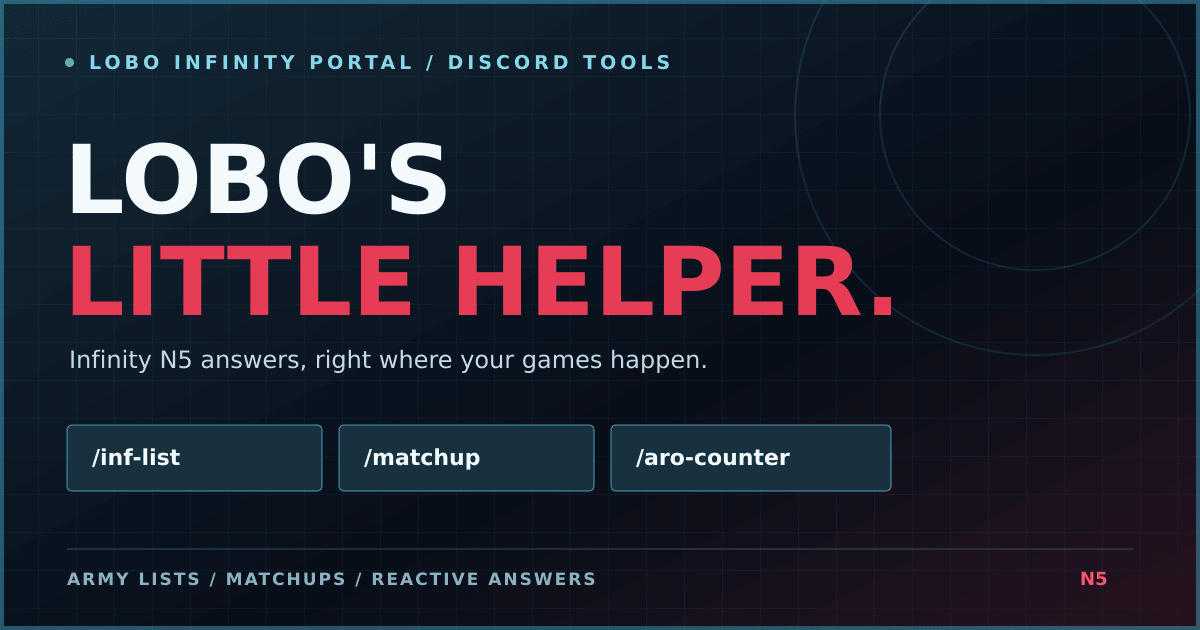
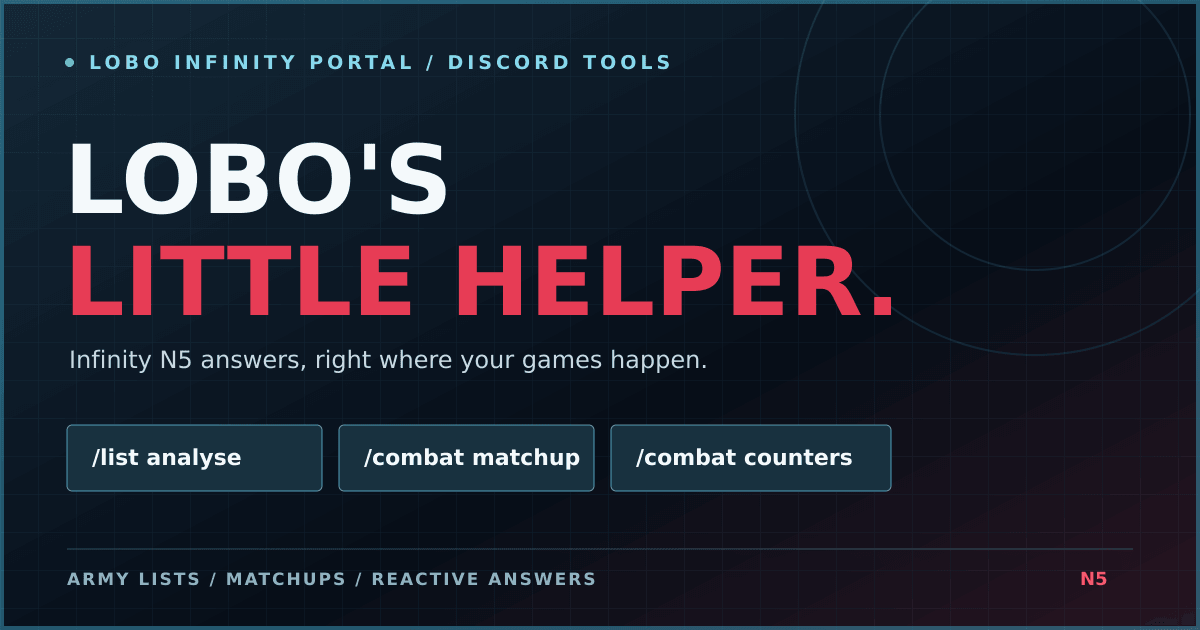
Update Little Helper guide for grouped bot commands

Changed region(s): [[0.5242, 0.6937, 0.7092, 0.754], [0.3083, 0.6937, 0.4933, 0.754], [0.0925, 0.6937, 0.2158, 0.754]]

diff --git a/lobo-infinity-portal/src/pages/LittleHelper.tsx b/lobo-infinity-portal/src/pages/LittleHelper.tsx
@@ -4,12 +4,20 @@ import PortalIcon from '../components/PortalIcon'
 import './LittleHelper.css'
 
 const moreCommands = [
-  { command: '/build-list', description: 'Build one mission-guided army list with must-include models.' },
-  { command: '/random-list', description: 'Generate a faction list with your points and SWC target.' },
-  { command: '/mission', description: 'Look up a scenario and its mission details.' },
+  { command: '/list build', description: 'Choose a faction and mission for three guided list options. Add must-include models, then use Analyse This List or Create ID Sheet.' },
+  { command: '/list random', description: 'Choose a faction, points, and SWC target. Get a random legal list and 2D TTS export; open roster, classifieds, and TTS notes privately.' },
+  { command: '/list identify', description: 'Paste an Army code to make a printable model identification sheet.' },
   { command: '/rules', description: 'Ask an Infinity rules question and get cited sources.' },
-  { command: '/inf-id', description: 'Make a printable identification sheet for an army list.' },
-  { command: '/availability', description: 'Set or check times to arrange a game.' },
+  { command: '/mission', description: 'Choose a scenario to look up its mission details.' },
+  { command: '/help', description: 'Open the private command guide. Pick Army Lists, Combat, Game Reference, or Find a Game.' },
+] as const
+
+const playCommands = [
+  { command: '/play availability set', description: 'Save recurring availability for a day, weekdays, or weekends. Supply start, end, and time zone; optionally choose format, points, and game type.' },
+  { command: '/play availability show', description: 'Check your saved availability.' },
+  { command: '/play availability clear', description: 'Remove one day or all saved days.' },
+  { command: '/play find now', description: 'Post a one-off game request with a date, start, end, and time zone. Optionally choose format, game size, and game type.' },
+  { command: '/play find close', description: 'Close your latest open game request.' },
 ] as const
 
 function LittleHelper() {
@@ -27,16 +35,16 @@ function LittleHelper() {
             <DiscordCommunityLink className="helper-button helper-button-primary" icon>Join Discord to try it <span aria-hidden="true">↗</span></DiscordCommunityLink>
             <a className="helper-button helper-button-secondary" href="#helper-commands">See the commands <span aria-hidden="true">↓</span></a>
           </div>
-          <p className="helper-hero-note">Free to use in the Lobo Infinity League Discord · Start with a slash command</p>
+          <p className="helper-hero-note">Start in the Lobo Infinity League Discord · Type /help for the private command guide</p>
         </div>
         <div className="helper-hero-display" aria-label="Three featured bot commands">
           <div className="helper-display-top"><span>LOBO&apos;S LITTLE HELPER</span><span>ONLINE IN DISCORD <i /></span></div>
           <div className="helper-display-grid" aria-hidden="true"><span /><span /><span /><span /><span /><span /></div>
           <div className="helper-display-content">
             <span className="helper-display-index">COMMAND INDEX / 001—003</span>
-            <a href="#inf-list"><strong>01</strong><span>/inf-list<small>Army list intelligence</small></span><b>↗</b></a>
-            <a href="#matchup"><strong>02</strong><span>/matchup<small>Two profiles. Both directions.</small></span><b>↗</b></a>
-            <a href="#aro-counter"><strong>03</strong><span>/aro-counter<small>Find a reactive answer.</small></span><b>↗</b></a>
+            <a href="#list-analyse"><strong>01</strong><span>/list analyse<small>Army list intelligence</small></span><b>↗</b></a>
+            <a href="#combat-matchup"><strong>02</strong><span>/combat matchup<small>Two profiles. Both directions.</small></span><b>↗</b></a>
+            <a href="#combat-counters"><strong>03</strong><span>/combat counters<small>Find a reactive answer.</small></span><b>↗</b></a>
           </div>
           <div className="helper-display-bottom"><span>INFINITY N5</span><span>READY FOR YOUR NEXT GAME</span></div>
         </div>
@@ -44,36 +52,38 @@ function LittleHelper() {
 
       <section className="helper-section-intro" id="helper-commands" aria-labelledby="helper-commands-title">
         <div><p className="helper-section-label">The field kit / 03 featured commands</p><h2 id="helper-commands-title">See what comes back.</h2></div>
-        <p>These previews show the fields the bot returns. Your own list and profile choices fill in the actual results in Discord.</p>
+        <p>Type /list, /combat, or /play and choose a subcommand in Discord. Start with the short result, then use its buttons for private details and connected tools.</p>
       </section>
 
       <section className="helper-showcases" aria-label="Featured bot commands">
-        <article className="helper-showcase" id="inf-list">
+        <article className="helper-showcase" id="list-analyse">
           <div className="helper-showcase-copy">
             <span className="helper-number">01 / LIST INTELLIGENCE</span>
-            <h3><code>/inf-list</code></h3>
-            <p>Paste an Infinity Army code. Get a readable list image, legality check, tactical brief, and the list&apos;s coverage of the current ITS 18 classified deck.</p>
+            <h3><code>/list analyse</code></h3>
+            <p>Paste an Infinity Army code. The channel reply shows legality, a short summary, a readable roster, and a 2D Tabletop Simulator JSON export. Open the detail buttons for more.</p>
             <div className="helper-input"><span>YOU PROVIDE</span><strong>An Infinity Army code</strong></div>
-            <ul><li>Points, SWC, and trooper legality</li><li>Gunfighters, ARO pieces, specialists, and control tools</li><li>Classified capability and a link back to Infinity Army</li></ul>
+            <ul><li>Tactical Brief, Ratings, Classifieds, and TTS Notes open privately</li><li>Create ID Sheet makes a printable model reference</li><li>Open in Infinity Army returns to the original list</li></ul>
+            <p className="helper-example"><code>/list analyse army-code:&lt;your Army code&gt;</code></p>
           </div>
-          <div className="helper-output helper-output-list" aria-label="Inf-list response preview">
+          <div className="helper-output helper-output-list" aria-label="List analyse response preview">
             <div className="helper-output-header"><span>BOT RESPONSE / LIST READOUT</span><span className="helper-output-dots" aria-hidden="true">● ● ●</span></div>
             <div className="helper-output-body">
               <div className="helper-output-status"><span className="helper-status-icon">✓</span><div><small>ARMY LIST VALIDATION</small><strong>Points · SWC · Troopers</strong></div></div>
-              <div className="helper-output-split"><div><small>ATTACHMENT 01</small><strong>Readable Army List</strong><span>Profiles, weapons, groups, and fireteams</span></div><div><small>ATTACHMENT 02</small><strong>Tactical Brief</strong><span>Ratings and battlefield roles</span></div></div>
-              <div className="helper-classified"><span>ITS 18 / CLASSIFIED COVERAGE</span><strong>All 20 cards checked</strong><small>Eligible profiles shown for each card</small></div>
+              <div className="helper-output-split"><div><small>CHANNEL ATTACHMENT</small><strong>Readable Army List</strong><span>Profiles, weapons, and combat groups</span></div><div><small>CHANNEL ATTACHMENT</small><strong>2D TTS Export</strong><span>Download the JSON for Tabletop Simulator</span></div></div>
+              <div className="helper-classified"><span>PRIVATE DETAIL BUTTONS</span><strong>Tactical Brief · Ratings · Classifieds · TTS Notes</strong><small>Classifieds shows ITS 18 cards and qualifying models. Create ID Sheet opens the connected identification tool.</small></div>
               <div className="helper-output-foot">OPEN IN INFINITY ARMY <span aria-hidden="true">↗</span></div>
             </div>
           </div>
         </article>
 
-        <article className="helper-showcase helper-showcase-reverse" id="matchup">
+        <article className="helper-showcase helper-showcase-reverse" id="combat-matchup">
           <div className="helper-showcase-copy">
             <span className="helper-number">02 / FACE-TO-FACE</span>
-            <h3><code>/matchup</code></h3>
+            <h3><code>/combat matchup</code></h3>
             <p>Select two exact profiles. The bot compares each attacker against the other&apos;s best defensive response, then turns the fight around.</p>
             <div className="helper-input"><span>YOU PROVIDE</span><strong>Two profiles from autocomplete</strong></div>
             <ul><li>Both attack directions, across range bands</li><li>Weapons, dice, and applied modifiers</li><li>Linked and unlinked cases when available</li></ul>
+            <p className="helper-example"><code>/combat matchup model-1:&lt;profile&gt; model-2:&lt;profile&gt;</code></p>
           </div>
           <div className="helper-output helper-output-matchup" aria-label="Matchup response preview">
             <div className="helper-output-header"><span>BOT RESPONSE / MATCHUP</span><span className="helper-output-dots" aria-hidden="true">● ● ●</span></div>
@@ -86,13 +96,14 @@ function LittleHelper() {
           </div>
         </article>
 
-        <article className="helper-showcase" id="aro-counter">
+        <article className="helper-showcase" id="combat-counters">
           <div className="helper-showcase-copy">
             <span className="helper-number">03 / REACTIVE RESPONSE</span>
-            <h3><code>/aro-counter</code></h3>
+            <h3><code>/combat counters</code></h3>
             <p>Choose the profile that worries you. See the strongest reactive responses, with an optional army or range filter to narrow the field.</p>
             <div className="helper-input"><span>YOU PROVIDE</span><strong>A target profile · optional army and range</strong></div>
             <ul><li>Top reactive profiles across useful range bands</li><li>Target and ARO weapons side by side</li><li>Face-to-face win, meaningful effect, and survival</li></ul>
+            <p className="helper-example"><code>/combat counters target:&lt;profile&gt;</code></p>
           </div>
           <div className="helper-output helper-output-aro" aria-label="ARO counter response preview">
             <div className="helper-output-header"><span>BOT RESPONSE / ARO COUNTER</span><span className="helper-output-dots" aria-hidden="true">● ● ●</span></div>
@@ -110,9 +121,22 @@ function LittleHelper() {
         <div className="helper-more-heading"><p className="helper-section-label">More in the kit</p><h2 id="helper-more-title">One server. More answers.</h2><p>These commands are available in the same Discord.</p></div>
         <div className="helper-more-grid">{moreCommands.map(({ command, description }) => <div key={command}><code>{command}</code><p>{description}</p></div>)}</div>
       </section>
+
+      <section className="helper-more" aria-labelledby="helper-play-title">
+        <div className="helper-more-heading"><p className="helper-section-label">Find a game</p><h2 id="helper-play-title">Make time to play.</h2><p>Use your local time and time zone for recurring availability or a one-off request.</p></div>
+        <div className="helper-more-grid">{playCommands.map(({ command, description }) => <div key={command}><code>{command}</code><p>{description}</p></div>)}</div>
+      </section>
+      <section className="helper-more" aria-labelledby="helper-feedback-title">
+        <div className="helper-more-heading"><p className="helper-section-label">Feedback &amp; server tools</p><h2 id="helper-feedback-title">Keep answers useful.</h2><p>Workshop monitoring runs automatically.</p></div>
+        <div className="helper-more-grid">
+          <div><strong>Report incorrect answer</strong><p>Use this button on supported responses to explain the issue and provide a source. Reports help review; they do not automatically change answers.</p></div>
+          <div><code>/admin reports</code><p>Server managers can privately download the latest 25 incorrect-answer reports for their server. Requires Manage Server.</p></div>
+          <div><code>/admin bots</code><p>Server managers can privately inspect bot accounts, webhook publishers, permissions, and recent activity. Use refresh:True to rescan. Requires Manage Server.</p></div>
+        </div>
+      </section>
       <section className="helper-final" aria-labelledby="helper-final-title">
         <span className="helper-final-icon"><PortalIcon name="discord" /></span>
-        <div><p className="helper-section-label">Ready when you are</p><h2 id="helper-final-title">Take the bot into your next game.</h2><p>Join the Discord, type a command, and pick your profiles or paste an Army code.</p></div>
+        <div><p className="helper-section-label">Ready when you are</p><h2 id="helper-final-title">Take the bot into your next game.</h2><p>Join the Discord and type /help, or choose a tool under /list, /combat, or /play. Use /rules and /mission for game reference.</p></div>
         <div className="helper-final-actions"><DiscordCommunityLink className="helper-button helper-button-primary" icon>Join Discord <span aria-hidden="true">↗</span></DiscordCommunityLink><Link to="/army-intelligence">Explore Army Intelligence <span aria-hidden="true">→</span></Link></div>
       </section>
     </main>

diff --git a/lobo-infinity-portal/src/pages/LittleHelper.css b/lobo-infinity-portal/src/pages/LittleHelper.css
@@ -58,7 +58,7 @@
 .helper-showcase { display: grid; grid-template-columns: minmax(0, .78fr) minmax(0, 1fr); gap: clamp(25px, 5vw, 75px); align-items: center; min-height: 440px; scroll-margin-top: 90px; border-top: 1px solid var(--helper-line); padding: clamp(27px, 4vw, 54px) 0; }
 .helper-showcase-reverse .helper-showcase-copy { grid-column: 2; grid-row: 1; }
 .helper-showcase-reverse .helper-output { grid-column: 1; grid-row: 1; }
-.helper-showcase-copy h3 { margin: 14px 0 18px; font-size: clamp(2.5rem, 5vw, 5.4rem); line-height: 1; }
+.helper-showcase-copy h3 { margin: 14px 0 18px; font-size: clamp(1.65rem, 3.3vw, 3.4rem); line-height: 1; }
 .helper-showcase-copy h3 code { color: #fff; }
 .helper-showcase-copy > p { max-width: 57ch; margin: 0; color: #c5d0da; font-size: 1.05rem; line-height: 1.65; }
 .helper-input { display: grid; gap: 4px; margin: 24px 0 18px; border-left: 3px solid var(--helper-red); padding: 3px 0 3px 13px; }
@@ -146,3 +146,7 @@
   .helper-final-actions { grid-column: 1; width: 100%; }
 }
 @media (prefers-reduced-motion: reduce) { .helper-button { transition: none; } }
+
+.helper-showcase-copy h3 code, .helper-more-grid code { overflow-wrap: anywhere; }
+.helper-example { margin-top: 20px !important; border: 1px solid var(--helper-line); border-radius: 4px; padding: 12px; background: #111e2b; overflow-wrap: anywhere; }
+.helper-example code { color: #80daf4; font-size: .85rem; }
